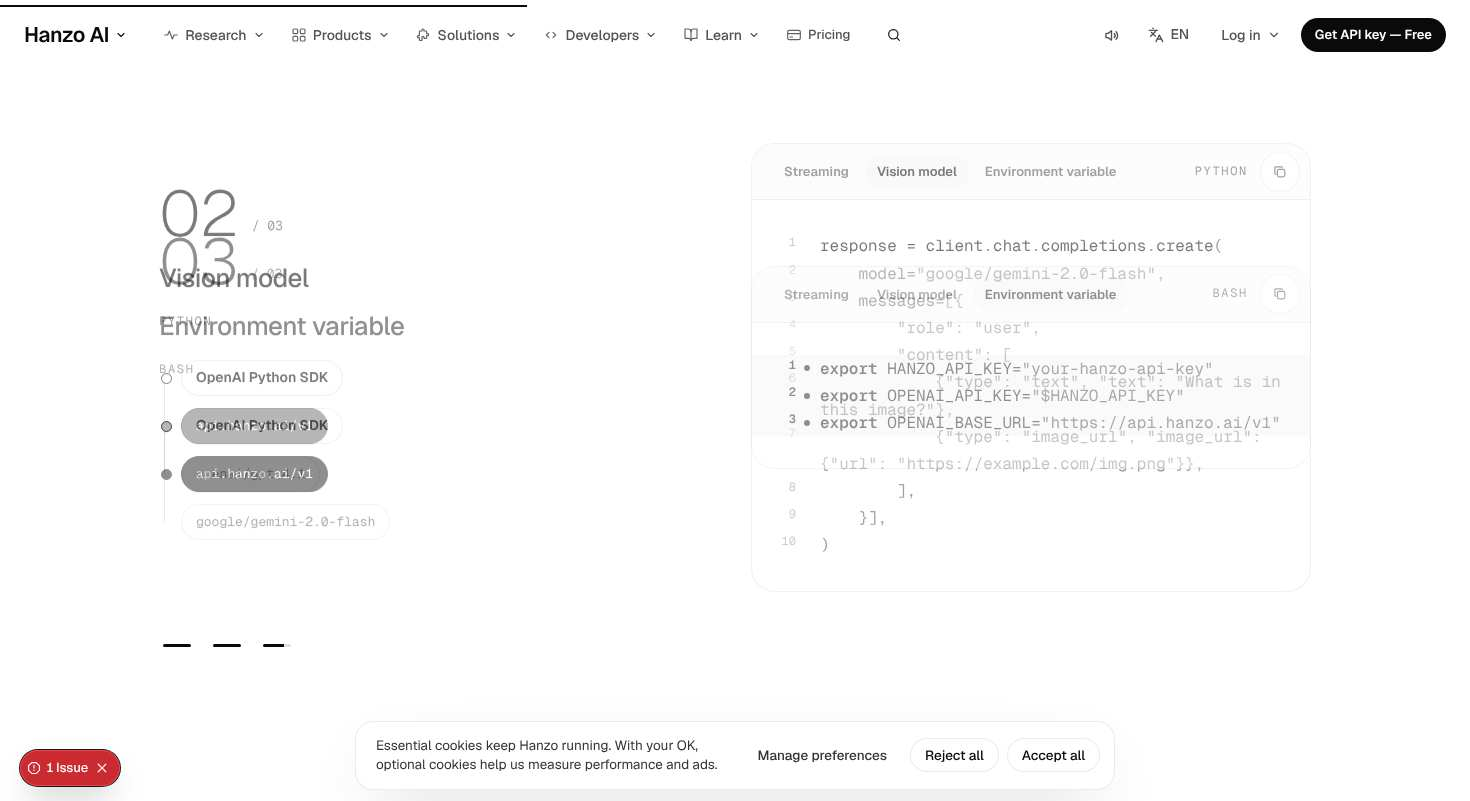
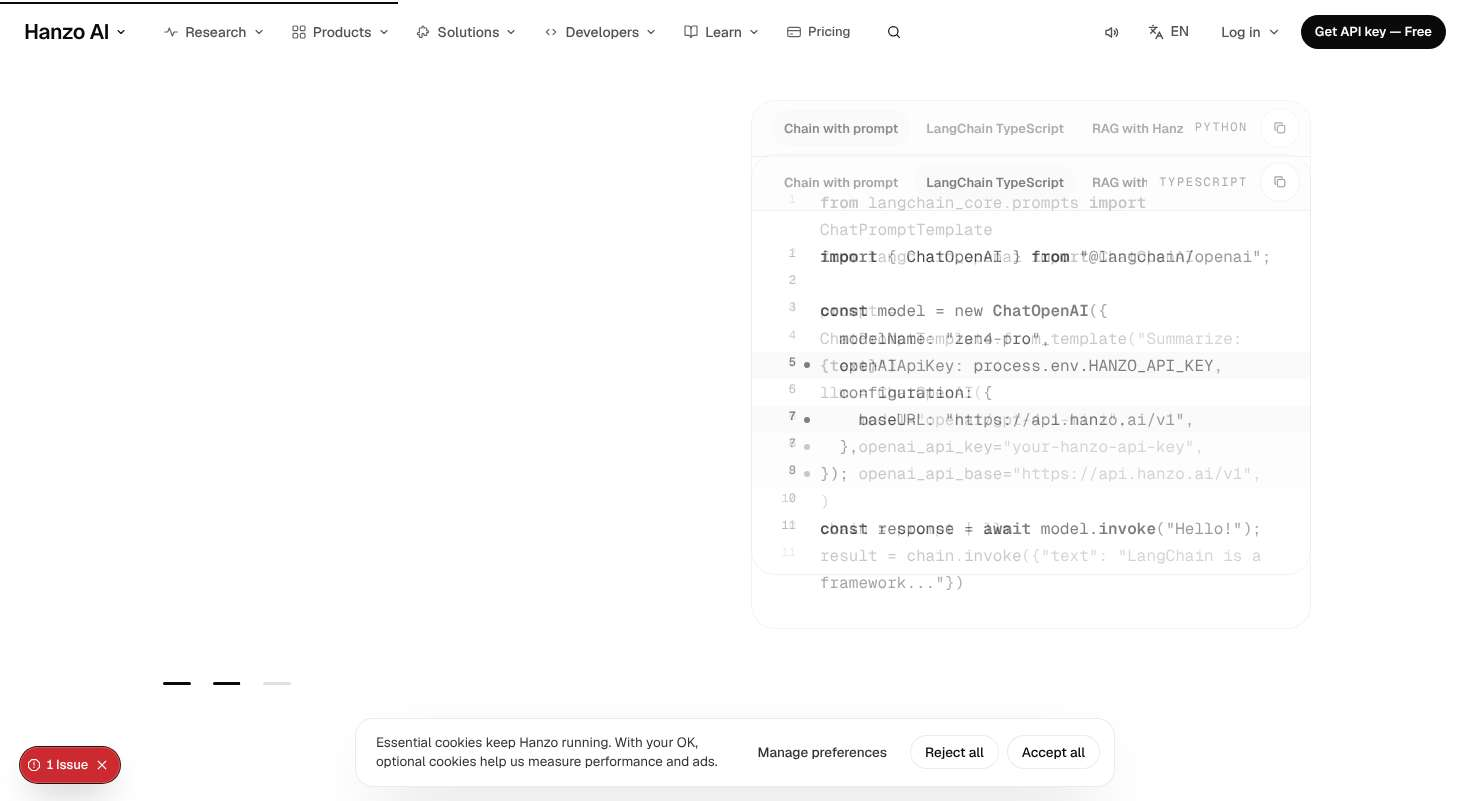
fix(integrations/*): the hero switch answers again (the pinned scene no longer overlaps it), the route shows once, the leaving window fades before the next wipes in, tabs never clipped by the language label, credit tile carries the tool's real mark

diff --git a/components/pages/integrations/guide.css b/components/pages/integrations/guide.css
@@ -172,10 +172,13 @@ html.js .xig .v2f-ch-t:not([data-on]) { transform: translateY(var(--dy, 17px)); 
    window's wipe runs in 600 ms, so two chapters never share the stage */
 @media (min-width: 901px) {
   html.js .xig-ch .v2f-ch-t:not([data-on]) { transition-duration: 150ms, 150ms; transition-delay: 0s; }
-  .xig-ch .v2f-ch-t[data-on] { transition-delay: .22s; }
-  .xig-ch .v2f-ch-v { transition-duration: .6s; }
-  /* the pinned scene meets its neighbours closely: the stage's own centring is the only space around it */
-  .xig-ch { margin-block: -10svh; }
+  .xig-ch .v2f-ch-t[data-on] { transition-delay: .15s; }
+  /* the leaving window fades in 150 ms; the arriving one wipes in after it, so two windows never share the stage */
+  html.js .xig-ch .v2f-ch-v:not([data-on]) { opacity: 0; transition: opacity 150ms cubic-bezier(0, 0, .2, 1), clip-path 0s .15s; }
+  .xig-ch .v2f-ch-v[data-on] { opacity: 1; transition: clip-path .6s cubic-bezier(.16, 1, .3, 1) .15s, opacity 0s; }
+  /* the language label never covers a tab: the tabs say which sample it is */
+  .xig-card-bar .xig-tabs ~ .xig-lang { display: none; }
+  .xig-tabs { flex: 1; overflow-x: auto; scrollbar-width: none; }
 }
 .xig-ch-n { margin: 0; font-size: 13px; color: var(--muted); }
 .xig-ch-n b { font: 220 64px/1 var(--sans); letter-spacing: -.02em; color: var(--ink); margin-right: 6px; vertical-align: -6px; }
@@ -200,7 +203,8 @@ html.js .xig .v2f-ch-t:not([data-on]) { transform: translateY(var(--dy, 17px)); 
 .xig-credit-l { grid-column: 1 / span 5; display: flex; align-items: center; gap: 17px; }
 .xig-credit-e { position: relative; flex: none; display: grid; place-items: center; width: 116px; height: 116px; overflow: hidden; border-radius: var(--r-hero); background: var(--card); color: var(--ink); font: 497 32px/1 var(--sans); letter-spacing: -.01em; }
 .xig-credit-s { position: absolute; inset: 0; width: 100%; height: 100%; color: rgba(0, 0, 0, .18); }
-.xig-credit-e b { position: relative; font-weight: 497; }
+.xig-credit-e b { position: relative; display: grid; place-items: center; font-weight: 497; }
+.xig-credit-e .xlg { width: 44px; height: 44px; }
 .xig .xig-credit { padding-block: clamp(44px, 5vw, 72px); }
 .xig .xig-more { padding-top: 0; }
 .xig-by { margin: 0 0 6px; font-size: 21px; font-weight: 497; letter-spacing: -.015em; }

diff --git a/components/pages/integrations/Guide.jsx b/components/pages/integrations/Guide.jsx
@@ -30,7 +30,8 @@ import FamStage from '../../v2/FamStage';
 import FamChapters from '../../v2/FamChapters';
 import FamNext from '../../v2/FamNext';
 import { ui } from '../../v2/famUi';
-import { Editor, CodeCard, Only, monoOf } from './intParts';
+import { Editor, CodeCard, Only } from './intParts';
+import Logo from './logos';
 import './guide.css';
 
 const FACES = { Infrastructure: 'term', 'Platforms & Editors': 'ide', Languages: 'mirror' };
@@ -68,12 +69,6 @@ export default function Guide({ doc, emojis }) {
         <p className="xig-ch-n x-mono" aria-hidden="true"><b>{String(k + 1).padStart(2, '0')}</b> / {String(rest.length).padStart(2, '0')}</p>
         <h2 className="v2f-head">{s.title}</h2>
         {s.lang && <p className="xig-ch-l x-mono">{s.lang}</p>}
-        <div className="xig-ch-route" aria-hidden="true">
-          <i className="xig-ch-req" />
-          <span className="xig-node">{name}</span>
-          <span className="xig-node hub x-mono">{doc.base.replace(/^https:\/\//, '')}</span>
-          {ends[0] && <span className="xig-node end x-mono">{ends[Math.min(k, ends.length - 1)]}</span>}
-        </div>
         {s.code && <div className="xig-ch-acts"><Only only={only} setOnly={setOnly} code={s.code} /></div>}
       </div>
     ),
@@ -130,7 +125,7 @@ export default function Guide({ doc, emojis }) {
       <section className="v2f-sec tight xig-credit">
         <div className="v2f-wrap v2f-grid xig-credit-g">
           <div className="xig-credit-l">
-            <span className="xig-credit-e" aria-hidden="true"><Sigil seed={doc.route + '#credit'} data={seedData} className="xig-credit-s" still /><b>{monoOf(name)}</b></span>
+            <span className="xig-credit-e" aria-hidden="true"><Sigil seed={doc.route + '#credit'} data={seedData} className="xig-credit-s" still /><b><Logo slug={doc.slug} name={name} /></b></span>
             <div>
               {doc.created && <p className="xig-by"><Loose nodes={doc.created} /></p>}
               {doc.license && <p className="xig-lic"><Loose nodes={doc.license} /></p>}

diff --git a/docs/review/integrations-family.md b/docs/review/integrations-family.md
@@ -1,69 +1,52 @@
 # /integrations/* (template) — James-eye review
 Verdict: 6/10
-First complaint: "When I scroll through the chapters, two lots of text sit on top of each other, and around them there are big empty white holes. It looks broken, not premium. And on my phone it's just a very long page of code."
+First complaint: "It's code boxes all the way down. The same little api.hanzo.ai pill ladder four times, and when I scroll the left side goes blank while two code boxes sit on top of each other. Then I click 'Only the Hanzo lines' and nothing happens. Where's the moment?"
 
-Walked 7 Nov 2026: /integrations/openai-sdk/ and /integrations/langchain/, moving, at 1470×801 and 375×812 (Playwright, deviceScaleFactor 1). For each, I took 32 frames at 250 ms over the first 8 s with no input, then scrolled slowly in 60 px steps with a frame every half screen. I hovered and pressed 40 controls per run, held the pinned chapters at 9 scroll positions, and loaded each page with JS off and with prefers-reduced-motion. Proof is in `docs/review/integrations-family/`: `1-desktop-hero-badge-cookie.jpg` shows the hero with the red Issue badge and the empty top-left. `2-desktop-pinned-stage-empty-clipped.jpg` catches the chapter crossfade with text on top of text. `3-phone-two-fills-duplicate-labels.jpg` shows the phone first screen with two solid black asks.
+Walked on 7 Nov: /integrations/openai-sdk/ and /integrations/langchain/, moving, at 1470x801 and 375x812 in Playwright Chromium (DPR 1). For each I took 250 ms frames for the first 8 s with no input, wheel-scrolled the whole page in 100 to 120 px steps, held at 13 points in the pinned stage, probed hover and press on 11 controls per page, did 5 fresh loads, and checked JS off, reduced motion and 320 px.
 
-## The 11 questions
+## The 11 answers
 
-**1. Does it sell in 5 s, and does something move within 1 s?** Yes. At 1470 the h1 is cut in by a line mask within the first second. From about 1.1 s the "Install & configure" code types the two Hanzo lines (`api_key`, `base_url`), and the pill chain from SDK to api.hanzo.ai/v1 to the model lights up. The demo settles at about 4.8 s, wakes again at about 6.5 s, and has a Stop/Replay control. On phone it settles at about 4 s. The weak spot is the composition. The h1 sits bottom-left (top 265 px) under about 200 px of empty white, while the lede sits top-right (top 104 px). The eye lands on the lede first and on the h1 second, so the hero reads as two half-filled columns, not one idea.
+**1. Sells in 5 s, moves within 1 s?** Yes on desktop. The h1 cuts in by line in about 700 ms, and the "Install & configure" panel starts typing the real snippet at about 0.5 s, with a pause/replay control and the gateway route (SDK → api.hanzo.ai/v1 → models) beside it. Frames change 26 to 31 times in 8 s. But the hero is a split with the h1 on the left and the lede, breadcrumb and ask on the right, so the ask sits away from the headline, and at 801 px only 12 of the 14 code lines show. On phone the typing ends at about 2.75 s. After that, frames 12 to 32 are byte-identical: the page is still until you scroll.
 
-**2. As you scroll, does one thing come in as one goes out?** Only in the middle. The pinned chapter stage (01/03 to 03/03, about 1,922 px of pin) is the one moment that works that way. While you scroll between chapters, though, both chapters show at about 50% at once: "02" over "03", "Vision model" over "Environment variable", and two code blocks interleaved (proof 2). The held positions are clean, so this happens only in the crossfade, which is exactly where a moving visitor sees it. Before and after the pin there are about 220 to 250 px of dead white. After that the page is a document: credit, a card rail, a 12-row link grid, then the band. On phone it is entirely a document. The page is 8,749 px tall (openai-sdk) and 9,322 px (langchain). It is three stacked chapters, each repeating the pill chain, the "Only the Hanzo lines" toggle and a long code block.
+**2. One in, one out, or a document?** Mostly one in, one out. The pinned stage (01/03 → 03/03, each a heading, a language caption, a route ladder and a tabbed code panel) changes one panel at a time and settles cleanly at every hold point. Mid-scroll is ugly, though. At y≈1167 on LangChain the left column is empty while the outgoing and incoming code panels and both tab bars overlap at partial opacity (proof 2). Below the stage it turns back into a document: a credit block, a 4-card rail, a 12-row link grid, the band and the footer.
 
-**3. Does every section hold a real visual object?** Mostly. The hero holds the live code stage, the chapters hold code plus the chain, "More integrations" holds Sigil contour cards (each one different), and the band holds a Sigil. The credit section fails: its only object is "OP" or "LA" initials in a grey rounded square, which reads as an icon in a box. The pill chain is the same object four times per page, so after the hero it no longer adds anything. There are 0 `img` and 0 `video` elements. That is fair for this family, but the partner gets no real mark anywhere.
+**3. A real visual object in every section?** Partly. The hero and stage have real objects: the typed code and the route ladder. The credit block's object is a placeholder, a 116 px contour tile with "OP" or "LC" letters, where a real maker mark should be. The cards carry generated contour art, not Hanzo media. The object is also the same one repeated: the route ladder appears 4 times per page (hero plus 3 chapters) and a code panel 4 times. That is James's "too many repeats".
 
-**4. Is there one ask, in Hanzo's words, in the sticky header, with nothing floating over content? Does scale have rhythm?** On desktop, yes. Once the hero ask leaves the view, the header ask turns into a solid "Get API key — Free" and nothing floats over content apart from the consent card. In the first second, though, the header "Try Hanzo" starts solid and then flips to an outline, so for a moment there are two solid fills. On phone the header never swaps. "Try Hanzo" stays solid black next to the solid "Get API key — Free" in the same first viewport: two fills, two different labels (proof 3). Scale is good: the h1 is 52 px (40 on phone), the 01/03 chapter figure is large, h2s are 26 px, and labels are small mono. Nothing grows or shrinks, though, so the scale never answers the scroll.
+**4. One ask in the sticky header, nothing floating, scale rhythm?** Fails on phone. At 375 the header shows a solid black "Try Hanzo" and the hero shows a solid black "Get API key — Free" at the same moment: two fills with two different labels (proof 3). The phone header never swaps. On desktop the header starts solid "Try Hanzo" at t=0, drops to outlined, then becomes solid "Get API key — Free" once the hero ask leaves. The idea is right, but the label differs between desktop and phone. The cookie card floats over the hero code on both sizes and is 220+ px tall on phone (shared chrome). Scale is fine: h1 52/40 px, chapter numerals about 64 px, headings 26, captions 12.
 
-**5. Does every hover and press answer, with no jumps?** Mostly. Presses scale to 0.97 or 0.98 on every button. Copy buttons go to 0.92 and confirm. The integration cards answer well: the fill steps from #f5f5f5 to #ededed, the hidden description rises 8 px into view, and the arrow turns 45°. Rows nudge 4 px, links underline, and I measured no size jumps. The misses: the header "Try Hanzo" hover only fades opacity from 1 to 0.88 (a banned fade). The hero primary hover only shifts the fill from #0a0a0a to #262626 and tells you nothing. The band's "Browse Models" showed no measurable hover change. The three chapter dashes have no hover state.
+**5. Every hover and press answers, no jumps?** No. The hero's "Only the Hanzo lines" switch is dead to the pointer on both members. The pinned layer (`.v2f-ch-pin`) covers it: elementFromPoint at its centre returned the pin at all 4 tested scroll offsets, and a real mouse click left the state unchanged. Rows in "More integrations" show only an underline on hover, with no preview or count. The breadcrumb link has no press state. Everything else is good: the asks darken (#0a0a0a → #262626) and scale to 0.97 on press, the copy and replay buttons ring and scale, the cards fill #f5f5f5 → #ededed, reveal their description and scale to 0.98, and none of them jump. Shared chrome: the header ask fades to opacity 0.88 on hover, which is the banned "button that fades".
 
-**6. Do overlaps, a font swap or layout shift appear anywhere?**
-- **Layout shift.** On desktop, CLS is 0.0003 at load and 0.0007 after a full scroll. On phone it is 0.0188 (openai-sdk) and 0.008 (langchain) over the first 10 s, mostly the consent card's text reflowing at 2.2 to 3.5 s (one shift of 0.0121). That is under the 0.02 limit, but only just.
-- **Font swap and overflow.** I saw no font swap. Horizontal overflow is 0 px at both sizes.
-- **Overlaps.** The chapter crossfade puts text on top of text. On first load the consent card covers lines 10 to 13 of the hero code on desktop and 203 px of the phone screen.
-- **Error badge.** A red Next "1 Issue" badge sat bottom-left on all 4 walked loads, and those walks logged a hydration-mismatch error ("A tree hydrated but some attributes… didn't match"). It did not reproduce on 2 networkidle loads, so it is intermittent. It still fails the "no red badge, no console errors" bar.
+**6. Overlaps, font swap, layout shift?** CLS is 0.0007 (desktop) and 0.019 (phone OpenAI, with one 0.012 text shift at 3.2 s). There is no horizontal overflow at 1470, 375 or 320. Zen is the rendered face. On LangChain at 1470 the third stage tab is clipped to "RAG with Hanz" under the "PYTHON" label. With JS off at 1470, the OpenAI h1 words sit on staggered baselines ("SDK" about 10 px low): the cut-in's start state is frozen. On phone the dev "1 Issue" badge overlaps the cookie card's "Reject all".
 
-**7. Which reference does it feel like, and is that reference's motion actually there?** It feels like apple.com's pinned scene, where one panel changes, plus motion.dev's typewriter and staged loading, and those motions really are there. synchronized.studio's card opening into its page did not show in my walk: clicking a "More integrations" card swapped the page with no visible handover of title or picture. That makes it a dev-docs page with good manners, not the Apple "one idea per screen" story it reaches for.
+**7. Which reference, and is its motion there?** Apple's pinned scene where one panel changes, plus a typewriter terminal from the developer type. Both are present. The synchronized.studio card-open is not. Clicking the LangChain card blanks the page to white with a lone 110 px "LangChain" word held from about 1.5 s to at least 2.8 s after the click (more than the 700 ms cap). The word is not the destination h1 ("Use Hanzo AI with LangChain") and does not land on it. The page-transition engine is shared chrome, so some of this time may be dev compile.
 
-**8. Is it different from its neighbours?** The two members are the same composition with different data and different Sigil seeds, which MASTER allows for a family. At template level the hero medium (a code stage with a live routing chain) is distinct from the model and catalogue templates.
+**8. Different from its neighbours?** Within the family the members differ only in data (snippet, ladder models, chapter names). That is fine for a template. Against the developer pages it reads as the same code-panel-plus-chips kit, and the hero is a code card like /api's. There is no integration-specific signature.
 
-**9. Are all 18 parts covered?** Most parts show:
-- one h1, a breadcrumb, `data-cta="integrations.hero"` on the primary, and the sticky-ask swap on desktop;
-- the Stop/Replay control on the demo and copy confirmation;
-- a reduced-motion final state with 0 running animations after 3.5 s, and a legible JS-off page;
-- the Band before the footer, and the sound toggle in the header.
+**9. 18 parts covered?** Most are visibly covered: one h1, a breadcrumb, a skip path, a closing band, copy controls, reduced motion and responsive layout. These are not: maker marks (part 10, real media), APG tabs on the stage (no `role="tab"` is exposed; part 6), a pause control on the phone demo once it scrolls away (part 12), and the Morph landing on the h1 (part 3).
 
-The open parts are:
-- Part 4 (the phone header ask);
-- Part 16 (code wraps mid-token: "What is in / this image?" on desktop, "from_templat / e(" on phone, instead of a labelled scroll region);
-- Part 17 (the console error and badge);
-- Part 6 (with JS off, the 6 card descriptions stay at opacity 0).
+**10. Banned tells?** The header ask fades on hover (shared chrome). There is a placeholder monogram tile. Nothing else: no hue, no gradient text, nothing sits above the h1 (the "AI SDKS" / "FRAMEWORKS" mono caps sit after the breadcrumb, below the lede), and the type is not Inter.
 
-**10. Are there any banned tells?**
-- Buttons that fade on hover: the header "Try Hanzo" goes from opacity 1 to 0.88.
-- Something like an icon in a box: the initials tile in the credit section.
-- Low contrast: over the black band the header becomes a muddy grey bar (72% white glass over black) with grey text.
+**11. Copy untouched?** As far as a visitor can tell, yes. The h1, lede, chapter names, credit line, band and asks read as Hanzo's. The stage's "Only the Hanzo lines" and "2 / 11" are UI strings.
 
-There are no hues, gradient text, pills above the h1, serif accents or cursor glow. The category label sits beside the breadcrumb, not above the h1.
+Console: 0 errors in 5 of 5 plain headless loads per member. But in 5 of 5 loads per member where the page is actually painting during hydration (screenshots every 250 ms, which is what a real browser does), there is 1 error each time: "A tree hydrated but some attributes of the server rendered HTML didn't match the client properties…", pointing at `<FooterHTML>` → `<div data-x-shell="footer" dangerouslySetInnerHTML={{__html: "<footer class=\"is_View _paddingInline-_platformweb_page-gutter …"}}>`. This is shared chrome (the footer), and it is why the red "1 Issue" badge shows. Reduced motion shows the final typed code and no running animations. JS off is legible on phone. On desktop it is legible apart from the h1 baseline jitter, and the card descriptions stay hidden (opacity 0) with JS off.
 
-**11. Is the copy untouched?** Yes. `parity.py` reports openai-sdk at text 93/93 and links 23/23, and langchain at text 92/92 and links 23/23.
+## Proof images (docs/review/integrations-family/)
+- `1-desktop-hero-badge-cookie.jpg`: OpenAI SDK at 1470, 7.5 s after load. The hero (h1 left, lede and ask right) with the typed panel cut at line 12, the cookie card floating over the code, and the red "1 Issue" dev badge from the footer hydration error.
+- `2-desktop-pinned-stage-empty-clipped.jpg`: LangChain at 1470, mid-scroll in the pinned stage (y≈1167). The left column is empty, two code panels and two tab bars are double-exposed, and the third tab is clipped to "RAG with Hanz".
+- `3-phone-two-fills-duplicate-labels.jpg`: LangChain at 375. A solid "Try Hanzo" in the header and a solid "Get API key — Free" in the hero at once. The panel repeats its language ("LangChain Python" title and a "PYTHON" row with an empty band), and the cookie card covers the code.
 
-## Fixes (ordered by impact)
-1. **Kill the chapter ghosting.** Between chapters, no two chapter titles, numbers or code blocks may both sit above 0.15 opacity in the same frame. Run the outgoing chapter out (opacity to 0, translateY −16 px, 300 ms) before the incoming one starts. Re-film at 60 px per 90 ms of scroll and check every frame.
-2. **Remove the dead white.**
-   - The gap between the bottom of the hero stage and the first chapter's content must be 72 px or less at 1470×801. Today it is about 220 px.
-   - The space between the chapter dashes and the credit hairline must also be 72 px or less. Today it is about 250 px.
-   - In the hero, either move the lede under the h1 on the 8/5 split or start the h1 at 38% of the viewport with the lede baseline-aligned. No empty block over 120 px tall may sit beside the h1.
-3. **Phone: one ask.** Once the hero ask is in view at 375×812, the header ask must be quiet (not solid), and it must take the label "Get API key — Free" when the hero ask leaves, as it does on desktop. Exactly 1 solid fill per phone viewport.
-4. **Phone: not a document.** Cut the phone page from 8,749 or 9,322 px to under 6,000 px:
-   - Show the chapters as a single tabbed code panel at a fixed height, or as a horizontal snap rail with a 14–18% peek, not three full stacks.
-   - Show the pill chain once, in the hero.
-   - Show the "Only the Hanzo lines" toggle once.
-5. **Fix the error.** 0 console errors and no "Issue" badge on 5 consecutive plain loads at each size, including loads screenshotted from `commit`. The hydration-mismatch attribute must go.
-6. **Code must not wrap.** Code blocks use `white-space: pre` inside a labelled `tabindex="0"` scroll region (Part 16). No identifier or string may break across lines at 1470 or at 375.
-7. **No fade on hover, and every hover tells you something.** The header "Try Hanzo" hover must change fill or border, not opacity. The hero primary hover should show something useful (for example the destination host, platform.hanzo.ai) or at least a fill-plus-icon nudge of up to 4 px. "Browse Models" needs a visible border or fill change. The chapter dashes need a hover state and a 44 px hit area with a label.
-8. **Give the credit section a real object.** Replace the "OP"/"LA" initials tile with the partner's real mirrored mark, or the family's Sigil seed. No initials in a rounded box.
-9. **Header over the black band.** On black rooms the header must switch to its dark state (graphite or black glass, #fafafa text) so text contrast is at least 4.5:1. No mid-grey bar.
-10. **Rail and states.**
-    - The "More integrations" rail must bleed to the viewport edge with a 14–18% peek instead of clipping at the container ("LlamaInde").
-    - With JS off, card descriptions must be visible (opacity 1).
-    - The first-second header flip from solid to outline must not be visible. Render it quiet from the server.
+## Fixes (by impact)
+1. **Unblock the hero switch.** Give `.v2f-ch-pin` `pointer-events:none` (children `auto`), or start the pin below the hero panel, so elementFromPoint at the "Only the Hanzo lines" switch returns the switch at every scroll offset and a click flips `aria-checked`. Re-test on both members.
+2. **One solid fill per viewport on phone.** At 375 the header ask must be quiet (outlined) while the hero ask is on screen, then turn solid with the same label as the hero ("Get API key — Free"), as desktop already does. Target: 1 element with an #0a0a0a fill per frame at 375x812, and the same header label at both widths.
+3. **Make the stage crossfade clean.** Keep the chapter text on the left during the switch: outgoing out by 40%, incoming in from 60%, with no frame where both code panels are above opacity 0.15. Add one tab bar that a gliding pill moves along, instead of two stacked bars. Pass mark: a scroll hold at every 50 px through the stage shows no empty left column and no double text.
+4. **Stop clipping the tabs.** At 1470 the third tab must show its full label. Move the language caption out of the tab row or let the row scroll with a fade. Expose the tabs as APG `role="tablist"`/`tab`.
+5. **Cut the repetition.** Show the route ladder once (in the hero) and in the chapters show only the line that changes, the model. Replace the 116 px "OP"/"LC" monogram with the maker's real mark (mirrored into `public/`) or drop the tile.
+6. **Keep something alive after the demo.** On phone nothing moves after 2.75 s. Give the stage or the credit block an idle mover (a ladder pulse travelling SDK → gateway → model every 4 to 6 s, frozen under reduced motion). Pass mark: frames differ at 4 s and 8 s with no input at 375x812.
+7. **Phone code panel.** Merge the panel title and language row into one 44 px header (no empty "PYTHON" band). Stop wrapping continuation lines to column 0 (`base_url=` and `.co / ntent` break), or give the horizontal scroll a right-edge fade.
+8. **Freeze the h1 in its final state with JS off.** `html:not(.js)` must show every h1 line at translateY(0). Today "SDK" sits about 10 px low on /integrations/openai-sdk/ at 1470.
+9. **Make row hover say something.** On a "More integrations" row, hover or focus should reveal the existing one-line description or its category count, not just an underline. Keep the card descriptions visible with JS off.
+10. **Shared chrome (request, do not edit):**
+    - Fix the footer hydration mismatch (5 of 5 painted loads).
+    - Remove the opacity 0.88 fade on the header ask's hover; use a fill change instead.
+    - Keep the phone cookie card at 220 px or less, and stop it covering the hero object.
+    - The card-to-page transition must hold 700 ms or less, and its title must land within 12 px of the destination h1 rather than show a lone 110 px "LangChain" word on white.
